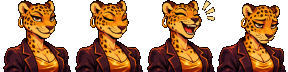
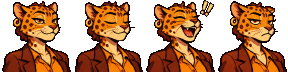
Onça com roupas novas (soltas) e textos da garrafa
Claude-Session: https://claude.ai/code/session_01En7euswnHof5YaDCcf2hee

diff --git a/index.html b/index.html
@@ -2948,7 +2948,7 @@ $("ini-cont").addEventListener("click",continuar);
 var SAVE_K="matraq-save-v1";
 var UPG=[
   {id:"meta",nome:"Meta mais leve",preco:[6,10,15,20,25],desc:function(n){return n?"Metas "+(2*n)+"% menores.":"Metas 2% menores por nível."}},
-  {id:"pavio",nome:"Pavio longo",preco:[8,14,20],desc:function(n){return n?"Nos duelos, a bomba aguenta +"+(5*n)+" pontos.":"Nos duelos, a bomba aguenta +5 pontos por nível."}},
+  {id:"pavio",nome:"Pavio longo",preco:[8,14,20],desc:function(n){return n?"Nos duelos, a garrafa aguenta +"+(5*n)+" pontos.":"Nos duelos, a garrafa aguenta +5 pontos por nível."}},
   {id:"gorj",nome:"Couvert da casa",preco:[4,8,12],desc:function(n){return n?"Cada mesa começa com +"+(3*n)+" pontos.":"Cada mesa começa com +3 pontos por nível."}},
   {id:"benc",nome:"Bênção de entrada",preco:[10,20],desc:function(n){return n===2?"Começa com 2 bênçãos comuns.":n?"Começa com 1 bênção comum (próximo nível: 2).":"Começa a noitada com 1 bênção comum (depois 2)."}},
   {id:"item",nome:"Item no bolso",preco:[12],desc:function(){return "Começa a noitada com 1 item comum ou incomum."}},
@@ -3327,11 +3327,11 @@ function usaSegundaChance(){
   return true;
 }
 
-var PERSO_ARTE={"tamandua": {"b": {"src": "assets/personagens/tamandua_busto.png", "w": 72, "h": 66}, "c": {"src": "assets/personagens/tamandua_corpo.png", "w": 82, "h": 124}}, "onca": {"b": {"src": "assets/personagens/onca_busto.png", "w": 72, "h": 72}, "c": {"src": "assets/personagens/onca_corpo.png", "w": 64, "h": 125}}, "lobo": {"b": {"src": "assets/personagens/lobo_busto.png", "w": 72, "h": 76}, "c": {"src": "assets/personagens/lobo_corpo.png", "w": 63, "h": 125}}, "arara": {"b": {"src": "assets/personagens/arara_busto.png", "w": 72, "h": 68}, "c": {"src": "assets/personagens/arara_corpo.png", "w": 85, "h": 124}}, "capivara": {"b": {"src": "assets/personagens/capivara_busto.png", "w": 72, "h": 61}, "c": {"src": "assets/personagens/capivara_corpo.png", "w": 71, "h": 125}}};
+var PERSO_ARTE={"tamandua": {"b": {"src": "assets/personagens/tamandua_busto.png", "w": 72, "h": 66}, "c": {"src": "assets/personagens/tamandua_corpo.png", "w": 82, "h": 124}}, "onca": {"b": {"src": "assets/personagens/onca_busto.png", "w": 72, "h": 72}, "c": {"src": "assets/personagens/onca_corpo.png", "w": 64, "h": 124}}, "lobo": {"b": {"src": "assets/personagens/lobo_busto.png", "w": 72, "h": 76}, "c": {"src": "assets/personagens/lobo_corpo.png", "w": 63, "h": 125}}, "arara": {"b": {"src": "assets/personagens/arara_busto.png", "w": 72, "h": 68}, "c": {"src": "assets/personagens/arara_corpo.png", "w": 85, "h": 124}}, "capivara": {"b": {"src": "assets/personagens/capivara_busto.png", "w": 72, "h": 61}, "c": {"src": "assets/personagens/capivara_corpo.png", "w": 71, "h": 125}}};
 
 // Personagens jogáveis: cada um com uma vantagem fixa na noitada. Os bloqueados abrem por conquista (guardada no aparelho).
 var PERSOS=[
-  {id:"capivara",nome:"Capivara",poder:"Tranquilona",desc:"Nos duelos, a bomba aguenta 10 pontos a mais de diferença antes de estourar."},
+  {id:"capivara",nome:"Capivara",poder:"Tranquilona",desc:"Nos duelos, a garrafa aguenta 10 pontos a mais de diferença antes de estourar."},
   {id:"tamandua",nome:"Tamanduá",poder:"Língua comprida",desc:"Uma vez por mesa, rola de novo um dado sem gastar lance (botão Língua)."},
   {id:"arara",nome:"Arara-azul",poder:"Olho vivo",desc:"A caça-níquel mostra sempre uma opção a mais para escolher."},
   {id:"lobo",nome:"Lobo-guará",poder:"Notívago",desc:"Nas mesas com maldição, o desconto na meta é o dobro.",trava:"Vença o duelo da Mesa 2 (Rival 2) para liberar."},
